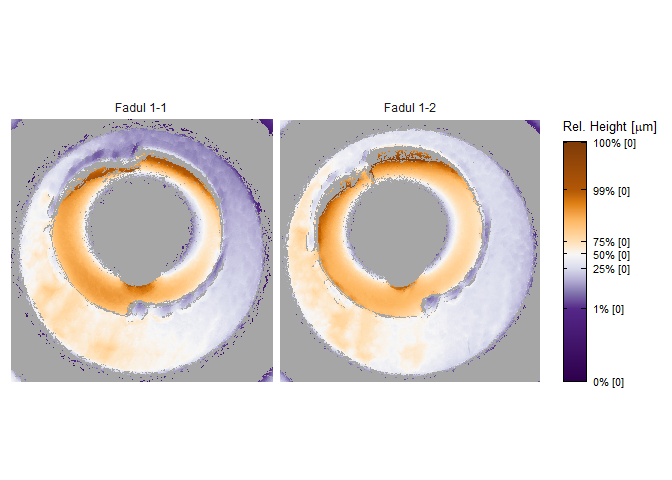
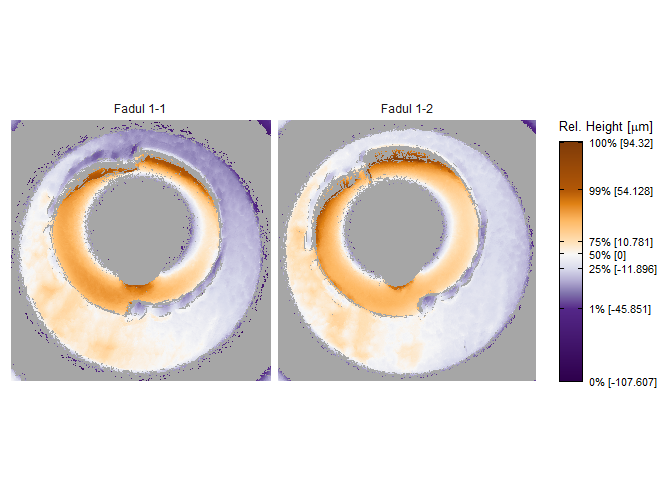
Fix preProcess_crop and cmcPlot function bugs

diff --git a/README.md b/README.md
@@ -69,8 +69,10 @@ fadul1.2_id <- "DownloadMeasurement/cb296c98-39f5-46eb-abff-320a2f5568e8"
 # Code to download breech face impressions:
 nbtrd_url <- "https://tsapps.nist.gov/NRBTD/Studies/CartridgeMeasurement/"
 
-fadul1.1_raw <- x3p_read(paste0(nbtrd_url,fadul1.1_id))
-fadul1.2_raw <- x3p_read(paste0(nbtrd_url,fadul1.2_id))
+fadul1.1_raw <- x3p_read(paste0(nbtrd_url,fadul1.1_id)) %>%
+  x3ptools::x3p_scale_unit(scale_by = 1e6)
+fadul1.2_raw <- x3p_read(paste0(nbtrd_url,fadul1.2_id)) %>%
+  x3ptools::x3p_scale_unit(scale_by = 1e6)
 
 x3pListPlot(list("Fadul 1-1" = fadul1.1_raw,
                  "Fadul 1-2" = fadul1.2_raw),
